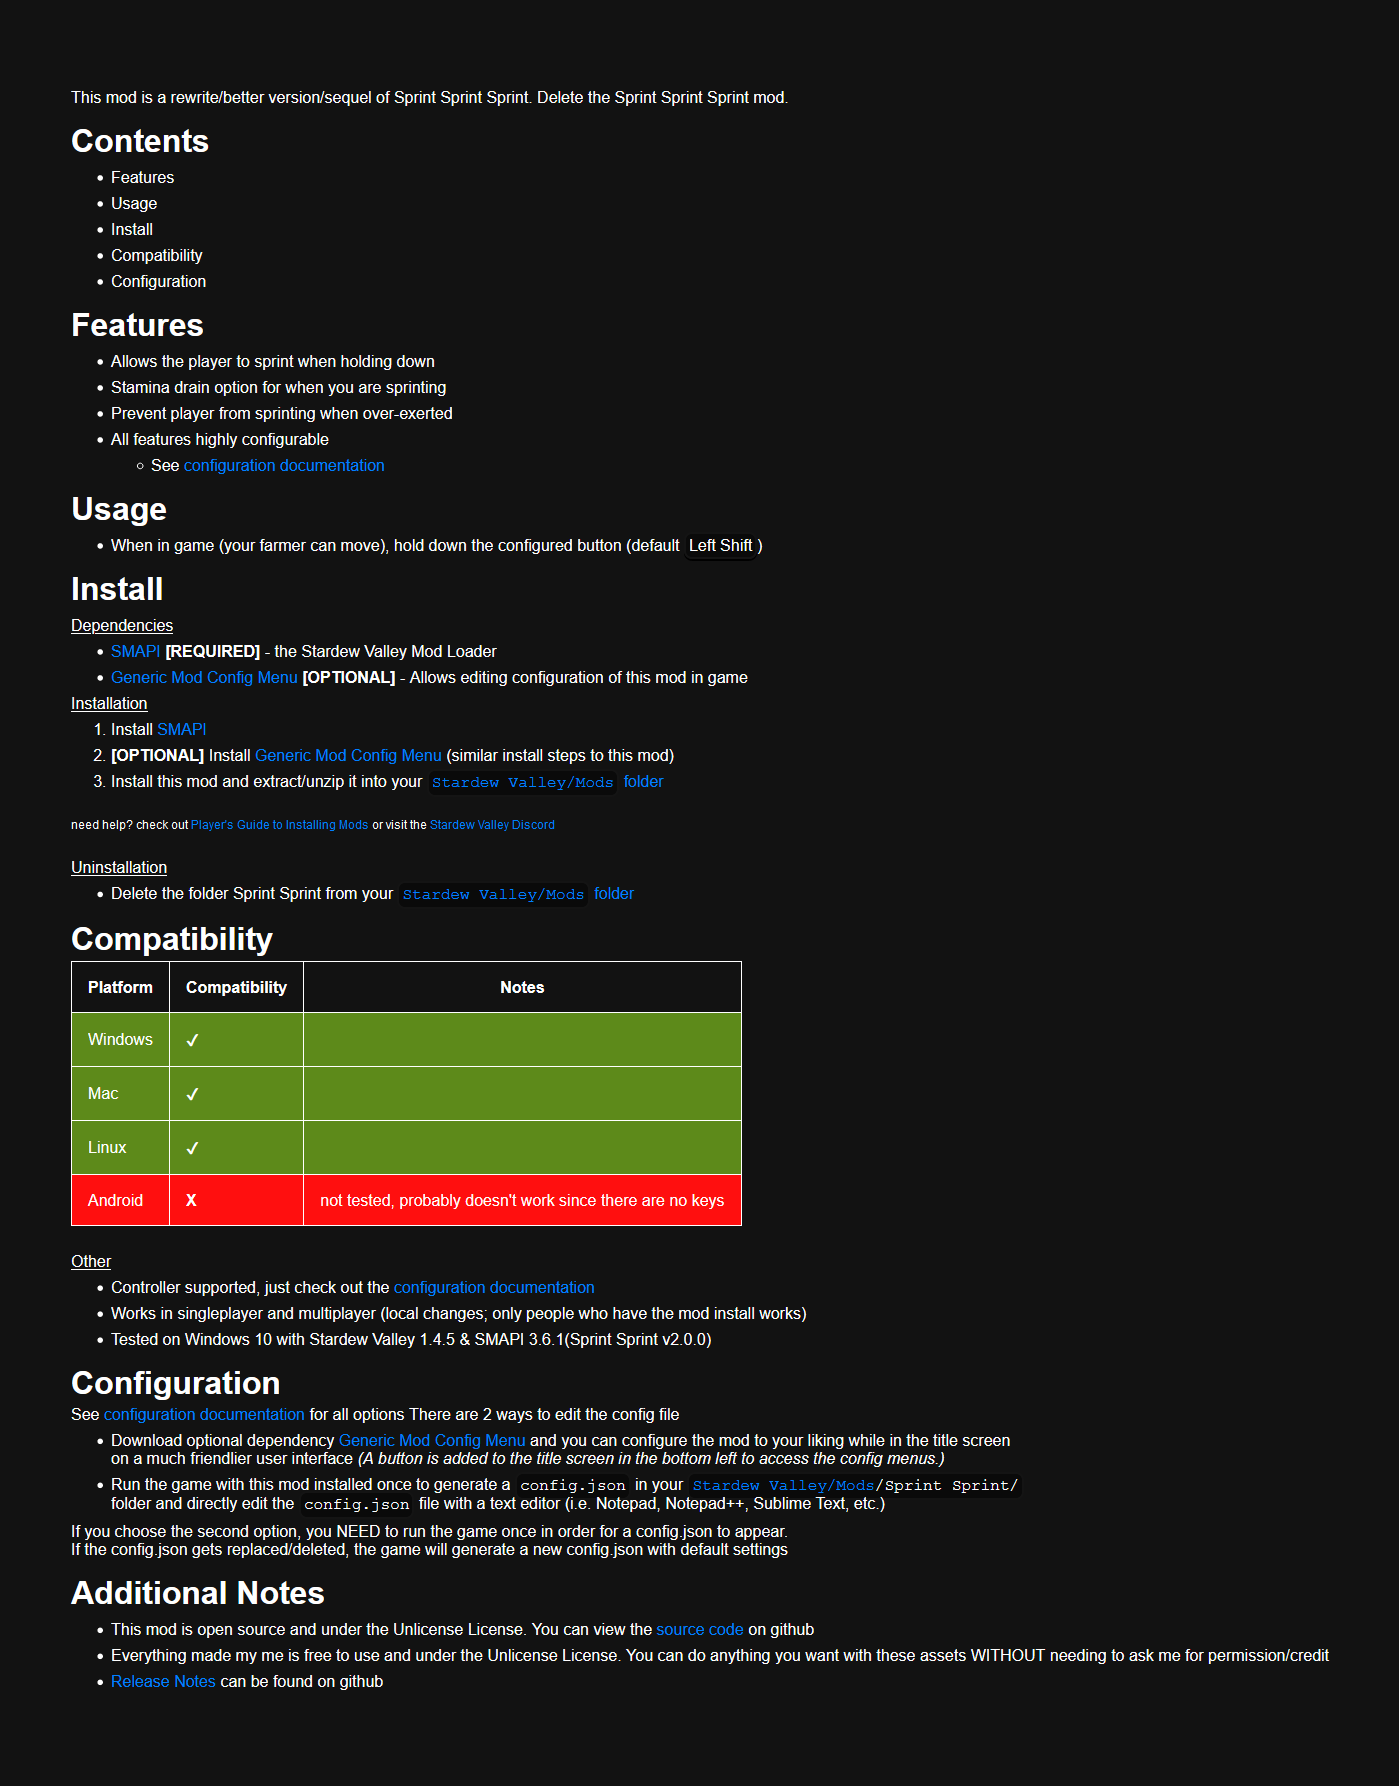
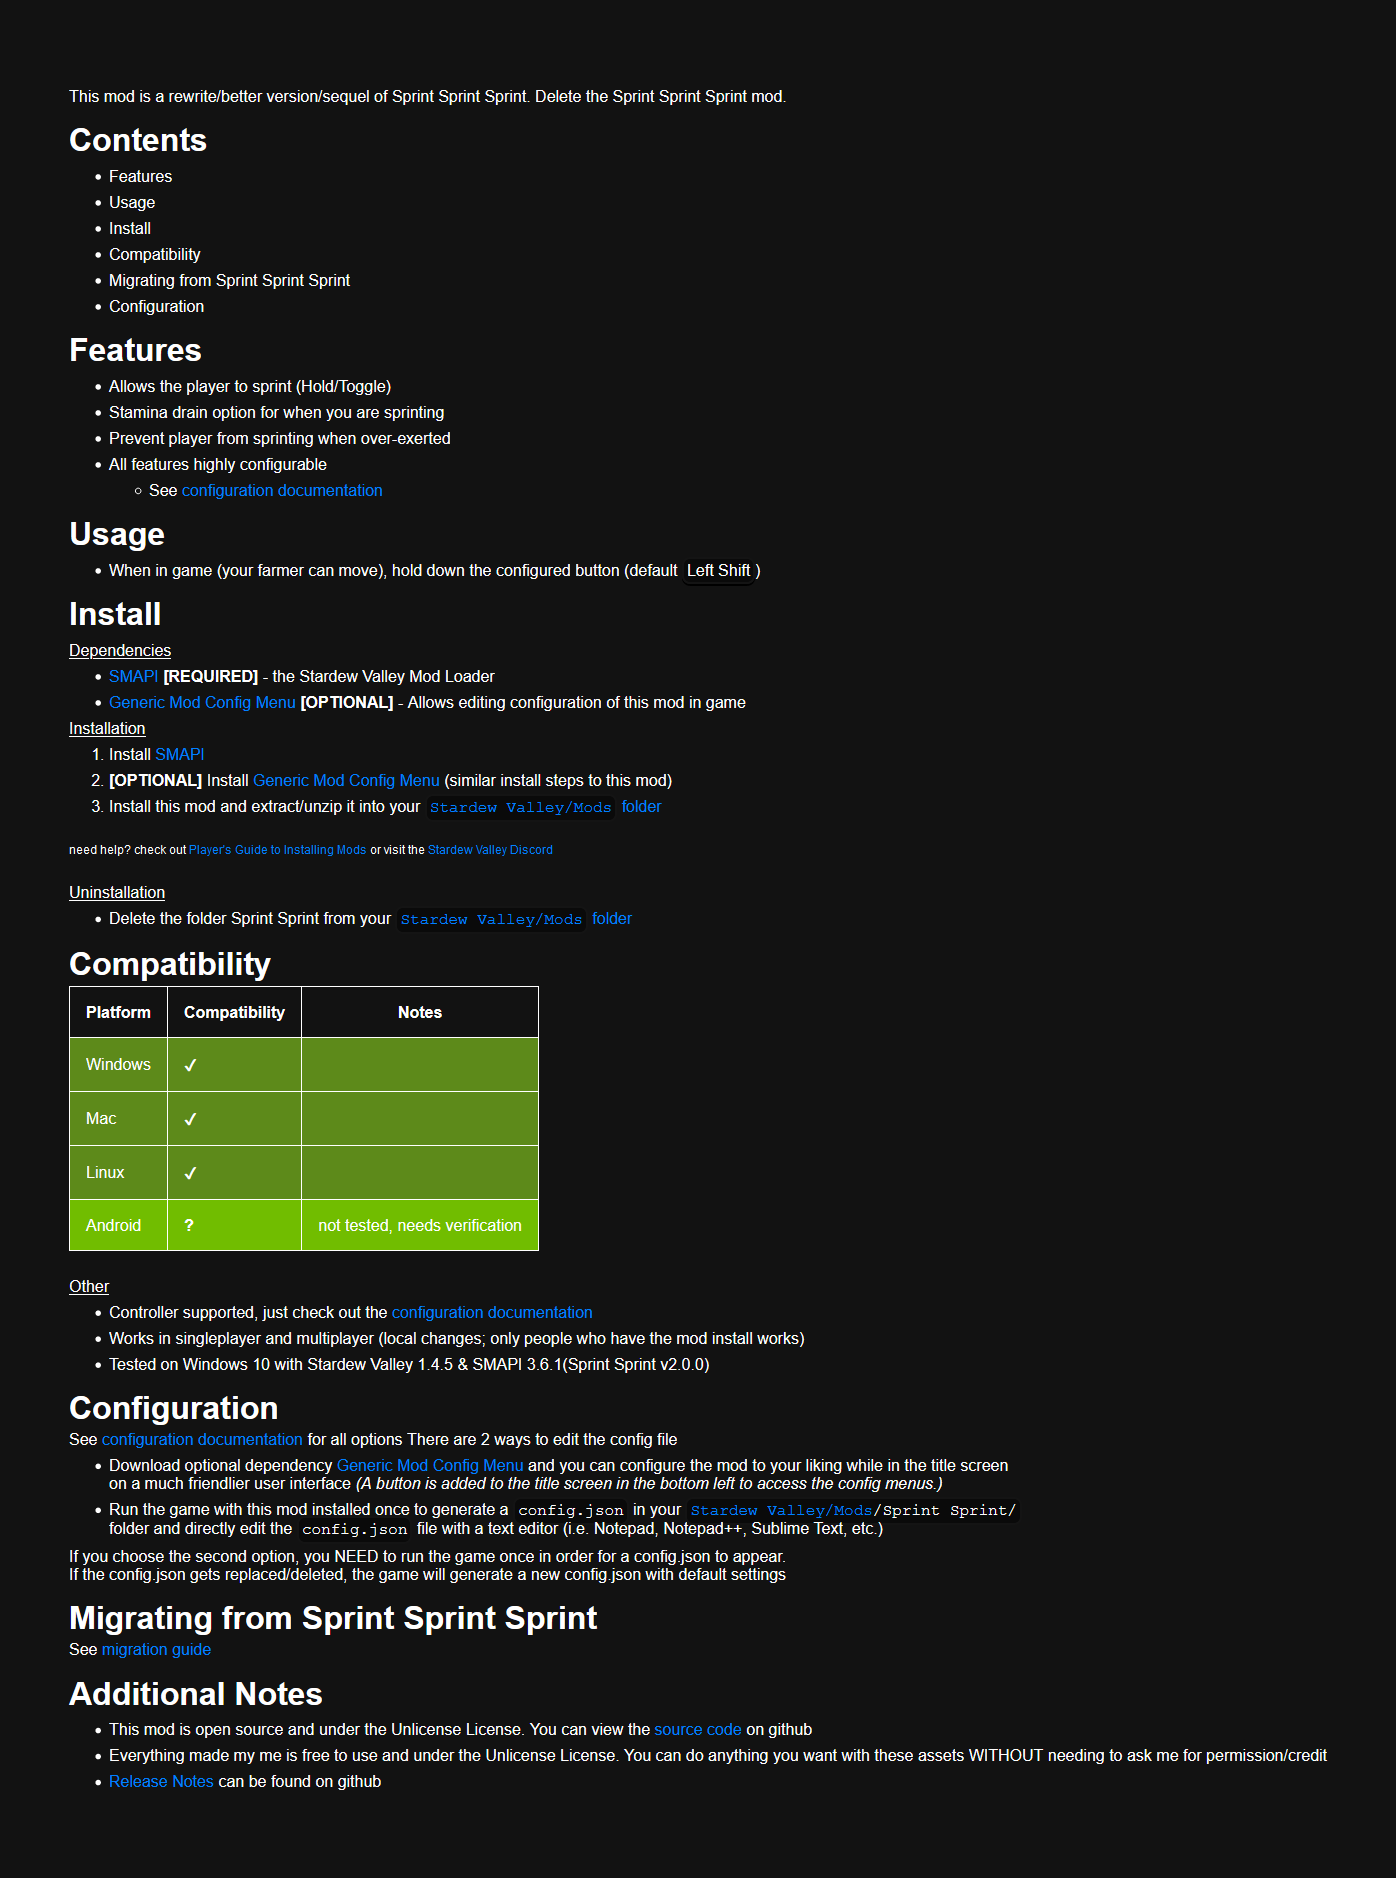
updated sprint sprint docs

Changed region(s): [[0.0308, 0.0308, 0.9549, 0.9546], [0.4312, 0.4927, 0.462, 0.5235]]

diff --git a/Sprint Sprint/preview/nexusdescription.html b/Sprint Sprint/preview/nexusdescription.html
@@ -18,11 +18,12 @@
         <li>Usage</li>
         <li>Install</li>
         <li>Compatibility</li>
+        <li>Migrating from Sprint Sprint Sprint</li>
         <li>Configuration</li>
     </ul>
     <h1>Features</h1>
     <ul>
-        <li>Allows the player to sprint when holding down</li>
+        <li>Allows the player to sprint (Hold/Toggle)</li>
         <li>Stamina drain option for when you are sprinting</li>
         <li>Prevent player from sprinting when over-exerted</li>
         <li>All features highly configurable</li>
@@ -76,10 +77,10 @@
             <td>✔</td>
             <td></td>
         </tr>
-        <tr class="incompatible">
+        <tr class="unknown">
             <td>Android</td>
-            <td><b>X</b></td>
-            <td>not tested, probably doesn't work since there are no keys</td>
+            <td><b>?</b></td>
+            <td>not tested, needs verification</td>
         </tr>
     </table>
     <br>
@@ -106,6 +107,9 @@
 
     If you choose the second option, you NEED to run the game once in order for a config.json to appear. <br> 
     If the config.json gets replaced/deleted, the game will generate a new config.json with default settings
+
+    <h1>Migrating from Sprint Sprint Sprint</h1>
+    See <a>migration guide</a>
 
     <h1>Additional Notes</h1>
     <ul>

diff --git a/.github/other/nexusdesc-styles.css b/.github/other/nexusdesc-styles.css
@@ -66,6 +66,10 @@ table, th, td {
     background-color: #5d8a1a;
 }
 
+.unknown {
+    background-color: #71bd00;
+}
+
 .incompatible {
     background-color: #ff0f0f;
 }

diff --git a/Sprint Sprint/README.md b/Sprint Sprint/README.md
@@ -1,5 +1,5 @@
 # Sprint Sprint
-[(download from nexus)](https://www.nexusmods.com/stardewvalley/mods/4778)
+[(download on nexus)](https://www.nexusmods.com/stardewvalley/mods/4778)
 
 ### Contents
 - [Features](#features)
